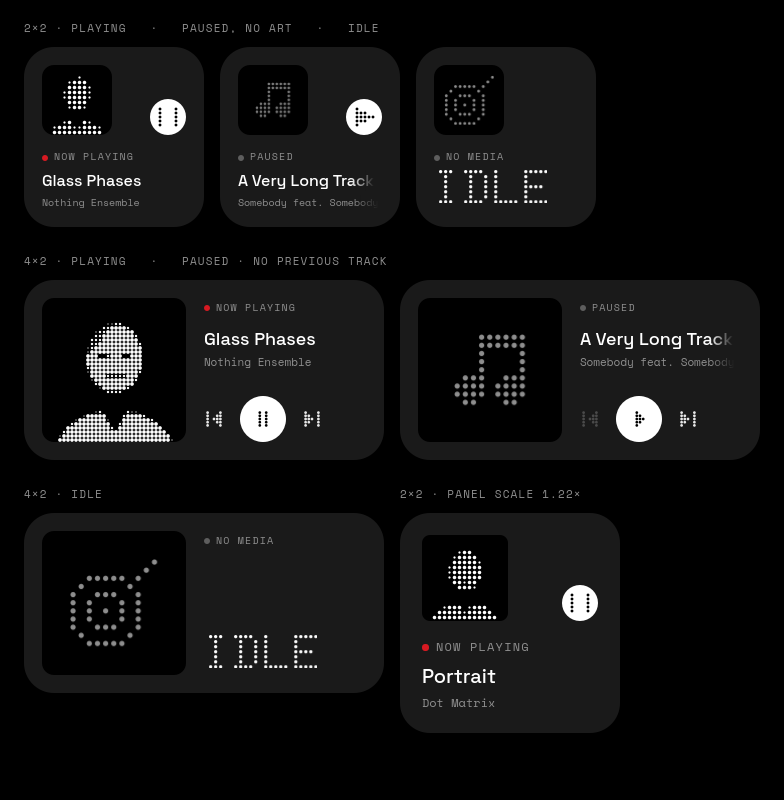
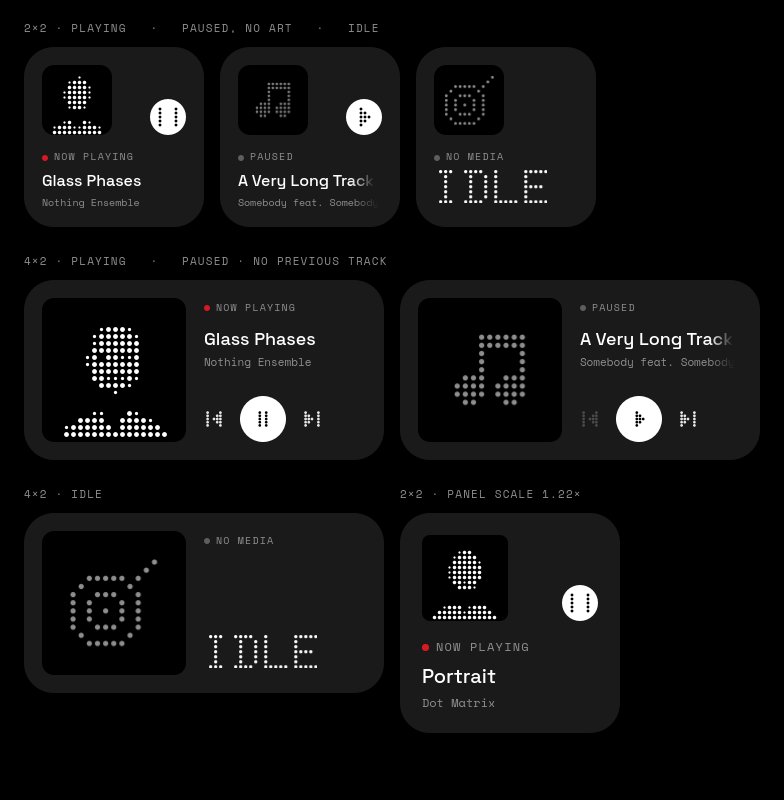
media: round 9 halftone gaps

Changed region(s): [[0.0612, 0.4062, 0.2143, 0.5625]]

diff --git a/plasma/plasmoids/org.nothing.media/contents/ui/MediaFace.qml b/plasma/plasmoids/org.nothing.media/contents/ui/MediaFace.qml
@@ -58,14 +58,15 @@ Card {
         // Small disk: play = 5×5 triangle, pause = two 5-dot bars, on an integer
         // 4px pitch (3px dots, 1px gaps) ≈ 55 % of the disk — dots never merge.
         DotGlyph {
+            // play ends in one centred apex dot
             readonly property var grid: root.playing ? ["#...#", "#...#", "#...#", "#...#", "#...#"]
-                                                    : ["#....", "###..", "#####", "###..", "#...."]
+                                                    : ["#..", "##.", "###", "##.", "#.."]
             visible: pb.snapped
             rows: grid
             dimColor: "transparent"
             litColor: Theme.bg
             dotRatio: 0.75
-            width: 20; height: 20
+            width: grid[0].length * 4; height: 20
             x: Math.round((pb.diameter - width) / 2) + (root.playing ? 0 : 1)
             y: Math.round((pb.diameter - height) / 2)
         }
@@ -229,7 +230,9 @@ Card {
             visible: root.hasArt
             source: root.hasArt && root.wide ? root.artUrl : ""
             mode: "halftone"
-            pitch: 4
+            // round dots with clear gaps: 7px cells, dots ≤ 0.7 of a cell
+            pitch: 7
+            maxDot: 0.7
             fadeTop: 0
             fadeBottom: 0
             radius: root.innerRadius

diff --git a/plasma/plasmoids/shared/ArtCanvas.qml b/plasma/plasmoids/shared/ArtCanvas.qml
@@ -106,7 +106,8 @@ Item {
                         const bot = fb > 0 ? Math.min(1, Math.max(0, (h - fb - my) / ramp)) : 1;
                         l *= top * bot;
                         const rad = p * root.maxDot / 2 * l;
-                        if (rad < 0.6 || !inside(cx + p / 2, my, p * 0.5)) continue;
+                        // < 2px dots read as specks: drop them
+                        if (rad < 1.0 || !inside(cx + p / 2, my, p * 0.5)) continue;
                         c.beginPath();
                         c.arc(cx + p / 2, my, rad, 0, Math.PI * 2);
                         c.fill();

diff --git a/plasma/plasmoids/org.nothing.controlcenter/contents/ui/MediaCard.qml b/plasma/plasmoids/org.nothing.controlcenter/contents/ui/MediaCard.qml
@@ -37,7 +37,7 @@ Rectangle {
                 source: root.art
                 mode: "halftone"
                 radius: 4
-                pitch: 3
+                pitch: 4; maxDot: 0.7
                 fadeTop: 0
                 fadeBottom: 0
                 matte: "#1a1a1a"

diff --git a/plasma/lookandfeel/org.nothing.desktop/contents/lockscreen/MediaCard.qml b/plasma/lookandfeel/org.nothing.desktop/contents/lockscreen/MediaCard.qml
@@ -48,7 +48,7 @@ Rectangle {
             source: card.artUrl
             mode: "halftone"
             radius: 12
-            pitch: 3
+            pitch: 4; maxDot: 0.7
             fadeTop: 0
             fadeBottom: 0
         }
